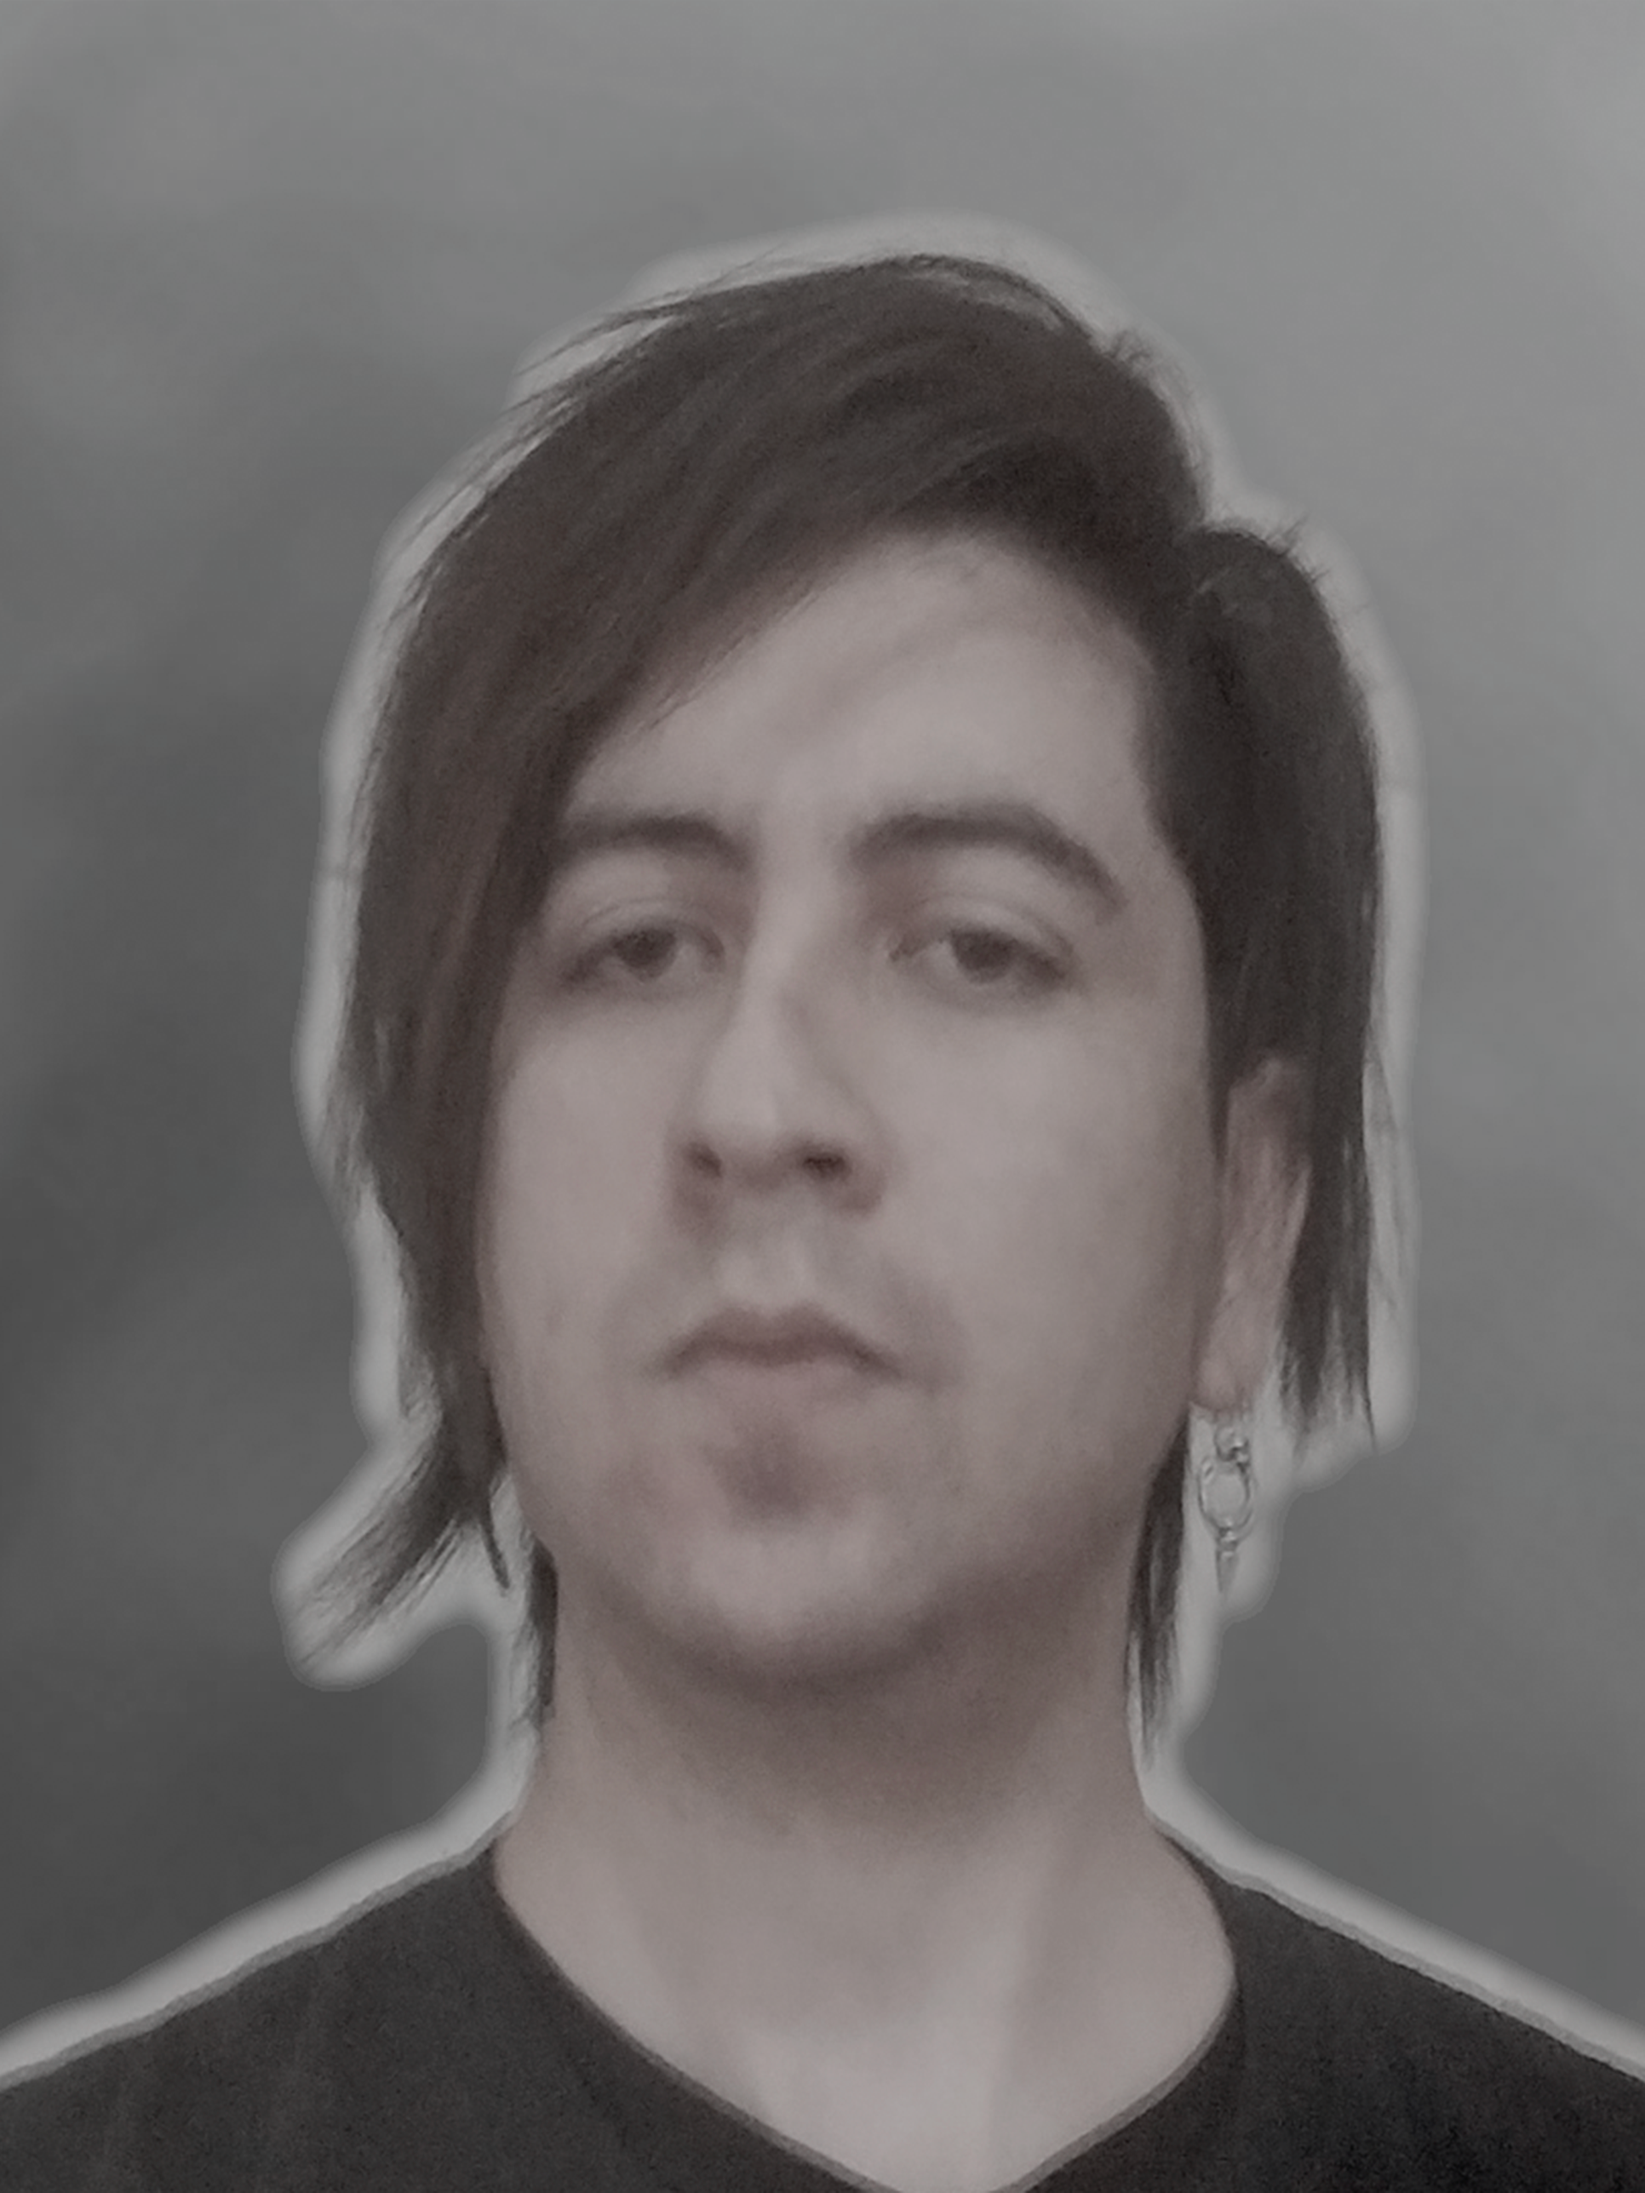
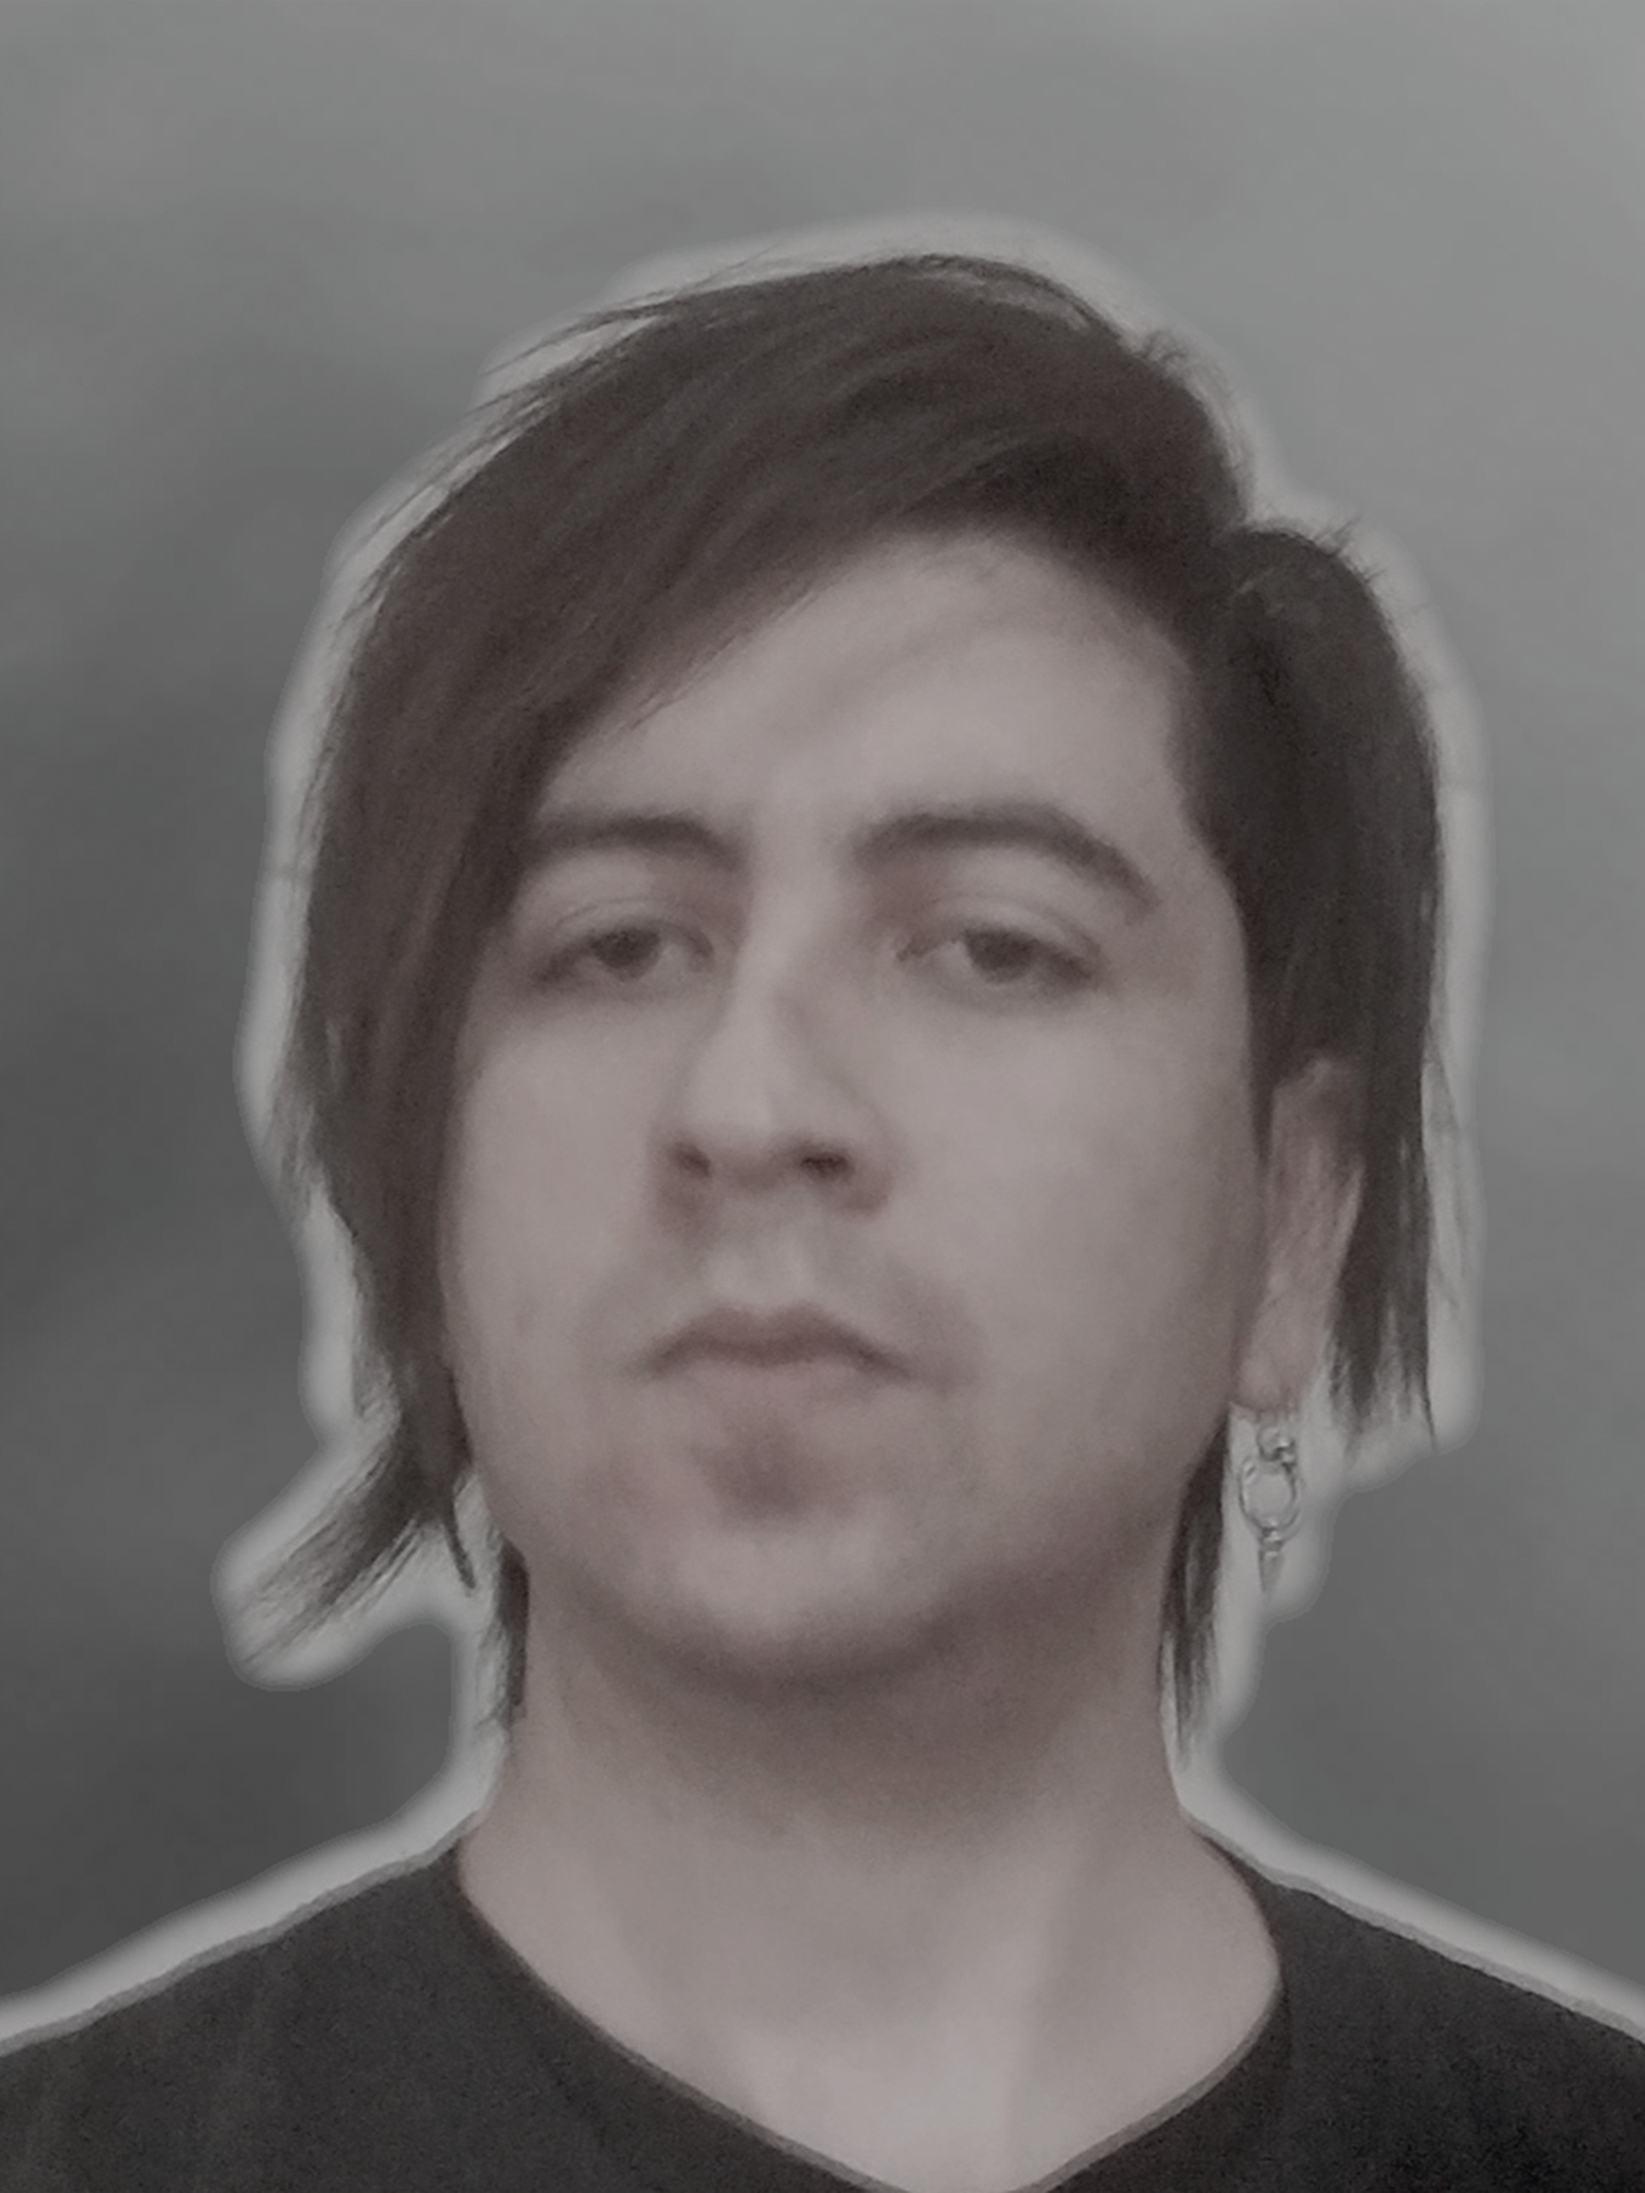
new branding

diff --git a/src/app/pages/Contact/Contact.jsx b/src/app/pages/Contact/Contact.jsx
@@ -90,7 +90,7 @@ export const Contact = () => {
                   <img src={defaultUserIcon} style={{borderRadius:'100%', boxShadow:'0px 0px 4px black', marginLeft:'-40px'}} width='50px' height='50px' alt="" />
                 </a>
                 <a href={`${URL_API}/mail/google`} style={{borderRadius:'100%', cursor:'pointer', width:'25px', height:'25px', marginLeft:'-7px', backgroundColor:'white'}}>
-                  <img src={googleIcon} style={{borderRadius:'100%', boxShadow:'0px 0px 4px black'}} width='25px' alt="" /> <br />
+                  <img src={googleIcon} style={{borderRadius:'100%', boxShadow:'0px 0px 4px black', filter:'grayscale(.4)'}} width='25px' alt="" /> <br />
                 </a>
               </ul>
             }
@@ -108,6 +108,7 @@ export const Contact = () => {
             </label><br/>
             <button className={s.submitButton} type="submit">{language==='EN'? 'send' : 'enviar'}</button>
           </form>
+          <p>Puedes contactarme mediante otros servicios al correo <i>gwerh.dev@gmail.com</i></p>
         </div>
       )}
       {!showForm && (

diff --git a/src/app/components/Profile/css/Profile.module.css b/src/app/components/Profile/css/Profile.module.css
@@ -1,12 +1,11 @@
 .imgProfile{
     border-radius: 100%;
     margin-top: 60px;
-    border-color: rgba(255, 255, 255, 0.735);
-    box-shadow: 0px 0px 10px white;
+    border: none;
     filter: grayscale(.5);
     transition-duration: .5s;
     cursor: pointer;
-    box-shadow: 0px 0px 10px rgb(255, 255, 255);
+    box-shadow: 0px 0px 8px rgb(255, 255, 255);
 }
 
 .imgProfile:hover{
